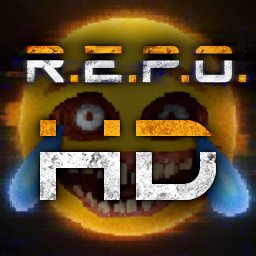
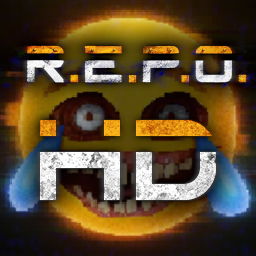
1.0.1
Fix resolution not changing sometimes
Move changelog to proper file
Add small horizontal blur to icon

diff --git a/Patches/GraphicsPatch.cs b/Patches/GraphicsPatch.cs
@@ -10,10 +10,7 @@ namespace REPO_HD.Patches
 		[HarmonyPatch(nameof(GraphicsManager.UpdateRenderSize))]
 		public static bool PrefixUpdateRenderSize()
 		{
-			// Force RenderTexture to be the same as the game's resolution
-			RenderTextureMain.instance.textureWidthOriginal = Screen.width;
-			RenderTextureMain.instance.textureHeightOriginal = Screen.height;
-			RenderTextureMain.instance.ResetResolution();
+			// Don't do anything here
 			return false;
 		}
 	}

diff --git a/Patches/RenderTexturePatch.cs b/Patches/RenderTexturePatch.cs
@@ -36,5 +36,14 @@ namespace REPO_HD.Patches
 				}
 			}
 		}
+
+		[HarmonyPrefix]
+		[HarmonyPatch(nameof(RenderTextureMain.Update))]
+		public static void PrefixUpdate(ref RenderTextureMain __instance)
+		{
+			// Force RenderTexture to be the same as the game's resolution
+			__instance.textureWidthOriginal = Screen.width;
+			__instance.textureHeightOriginal = Screen.height;
+		}
 	}
 }

diff --git a/REPO_HD.cs b/REPO_HD.cs
@@ -11,7 +11,7 @@ namespace REPO_HD
 		internal const string Name = "REPO_HD";
 		internal const string Author = "BlueAmulet";
 		internal const string ID = Author + "." + Name;
-		internal const string Version = "1.0.0";
+		internal const string Version = "1.0.1";
 
 		internal static ManualLogSource Log;
 

diff --git a/thunderstore/README.md b/thunderstore/README.md
@@ -7,11 +7,3 @@ If you are installing this manually, do the following
 1. Extract the archive into a folder. **Do not extract into the game folder.**
 2. Move the contents of `plugins` folder into `<GameDirectory>\BepInEx\plugins`.
 3. Run the game.
-
-## Changelog
-<details>
-<summary>Click to expand</summary>
-
-### 1.0.0
-Initial release.  
-</details>

diff --git a/thunderstore/CHANGELOG.md b/thunderstore/CHANGELOG.md
@@ -1,0 +1,6 @@
+# 1.0.1
+- Fixed resolution changes not applying
+- Moved changelog to proper file
+
+# 1.0.0
+- Initial release
